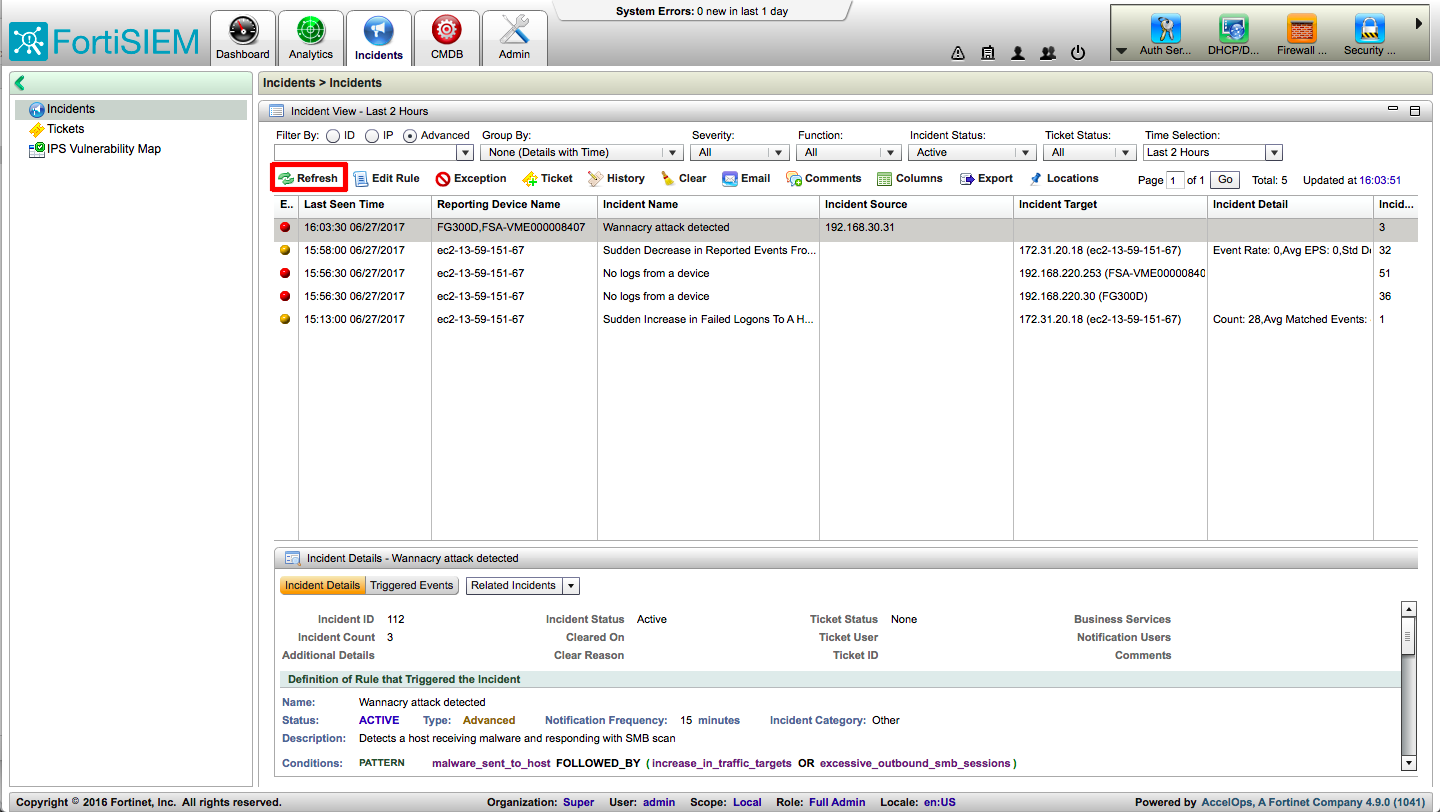
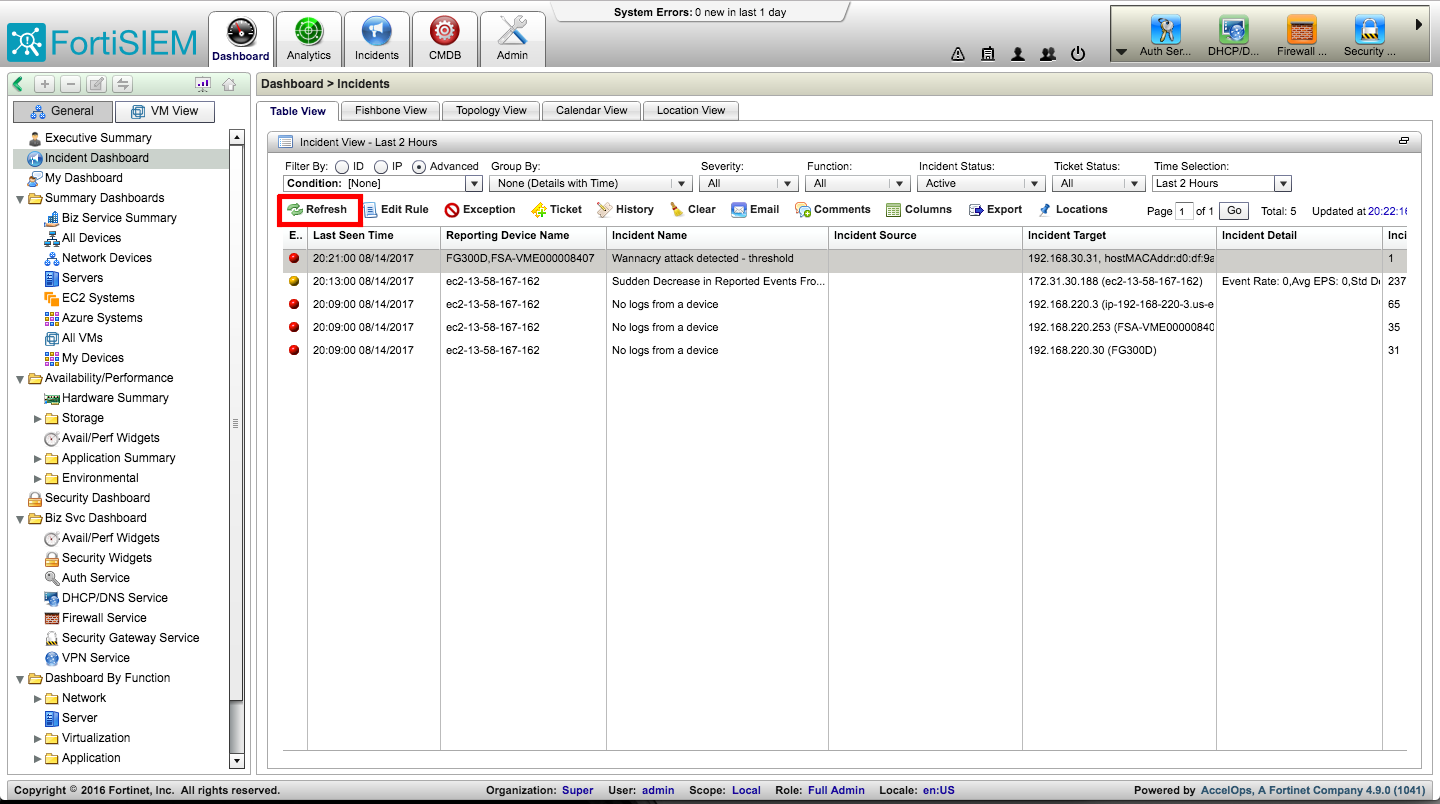
demo script update 2

Changed region(s): [[0.0, 0.0, 1.0, 1.0]]

diff --git a/doc/use.html b/doc/use.html
@@ -20,11 +20,11 @@
 				<td colspan="3">Preparation</td>
 			</tr>
 			<tr>
-				<td>Log into your FortiSIEM appliance. Go to Incidents tab.
+				<td>Log into your FortiSIEM appliance. Go to <i>Dashboard> Incident Dashboard</i>.
 				</td>
 				<td>
 				</td>
-				<td><a href="img/incidents_screen.png"><img src="img/thumbnails/incidents_screen.png"/></a>
+				<td><a href="img/incident_dashboard.png"><img src="img/thumbnails/incident_dashboard.png"/></a>
 				</td>
 			</tr>
 			<tr>
@@ -60,6 +60,7 @@
 						</ul>
 					</p>
 					<p>On our simulated network there is FortiSanbox and FortiGate installed stopping all known threats on the spot and running analysis on the unknown ones. Sandboxing time is counted in minutes which means infections can be contained quickly across all organization and attack vectors but they cannot be ruled out (if the first download channel is real time like web, skype, etc the infected file will get through).</p>
+					<p>We start on Incident Dashboard which is single screen used by SOC team to monitor, classify and prioritize security incidents across the organiation.</p>
 				</td>
 				<td>
 					<a href="img/incident_detected.png"><img src="img/thumbnails/incident_detected.png"/></a>

diff --git a/README.md b/README.md
@@ -25,6 +25,7 @@ Version 1.0
 Version 2.0
 
 * added remediation script example
+* added dashboards to demo flow
 * no restart on installation required anymore
 
 ## Future Enhancements
